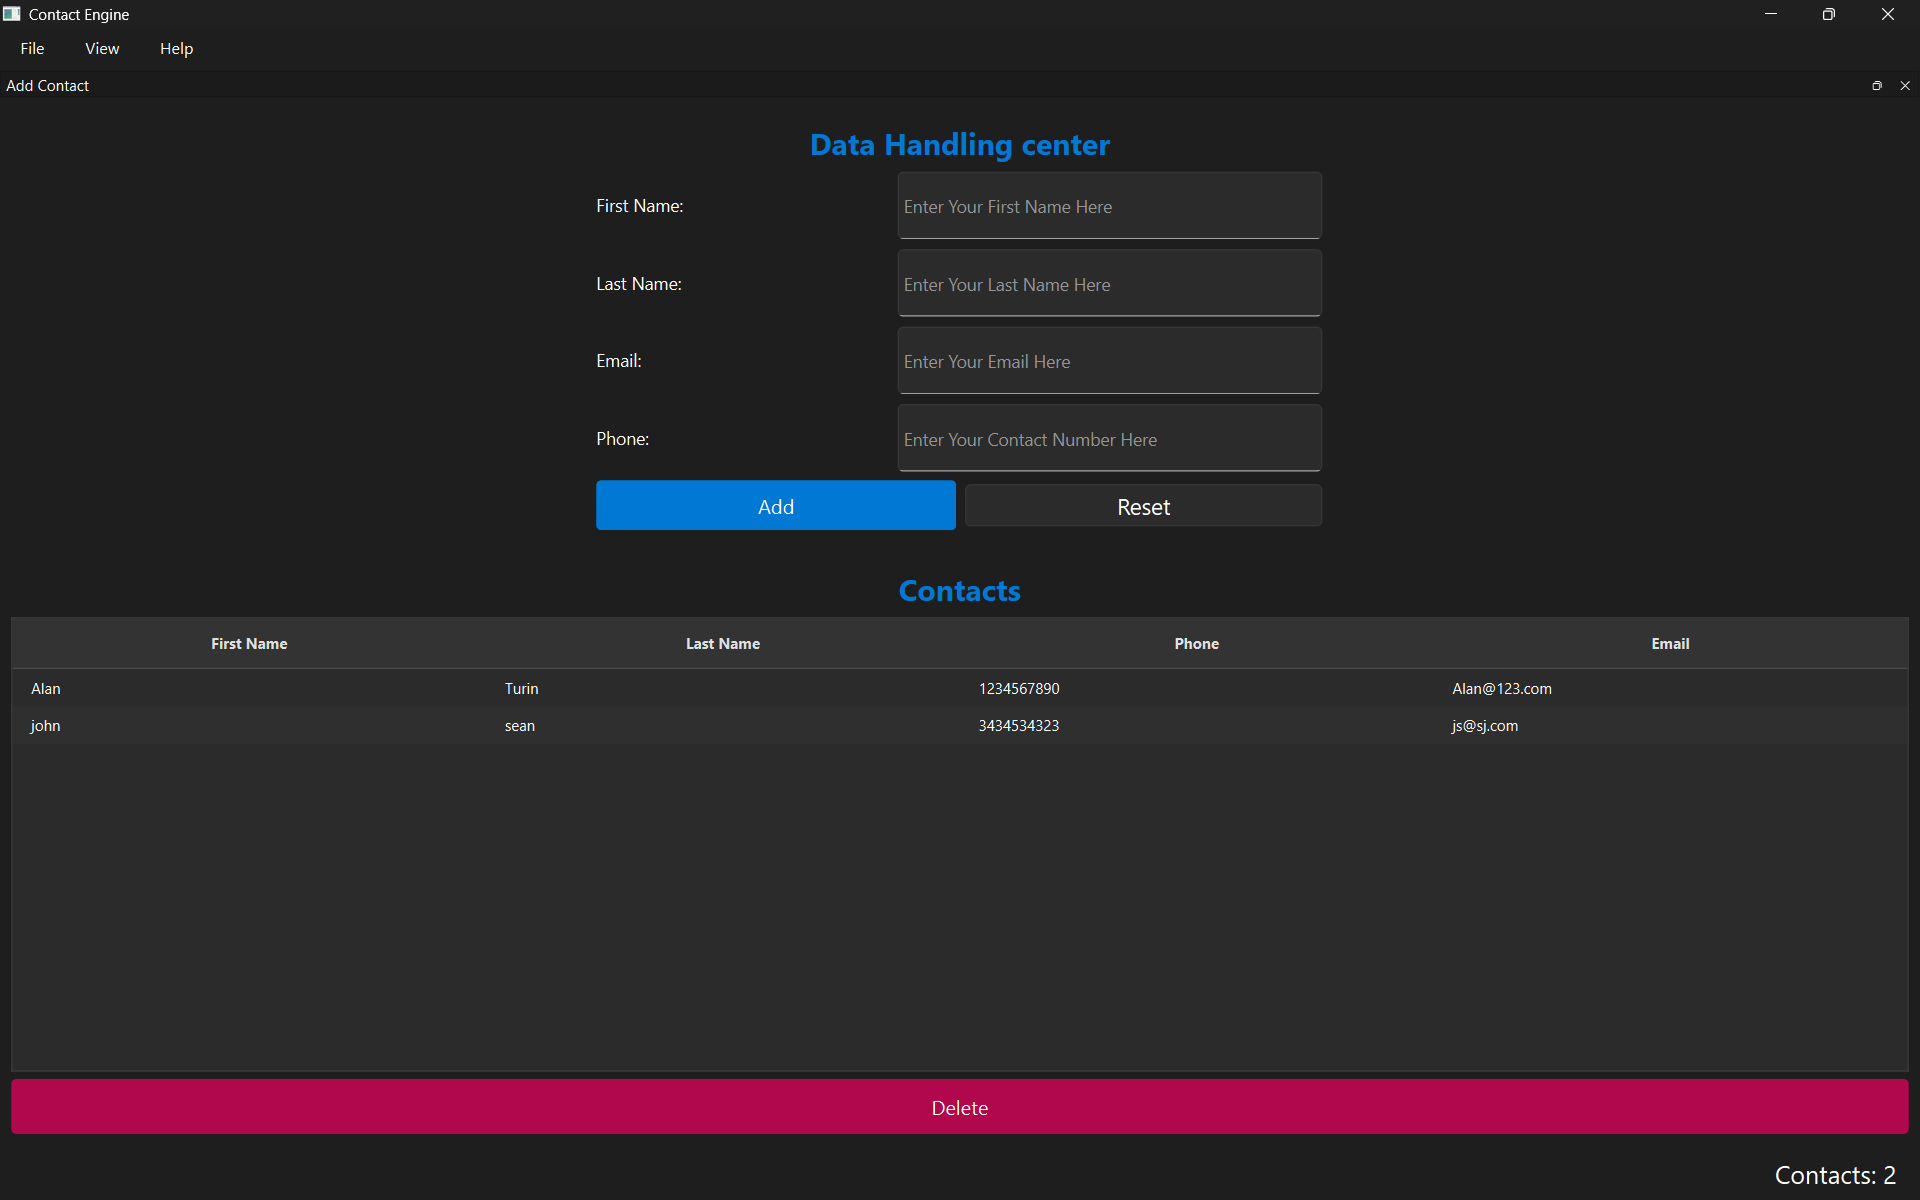
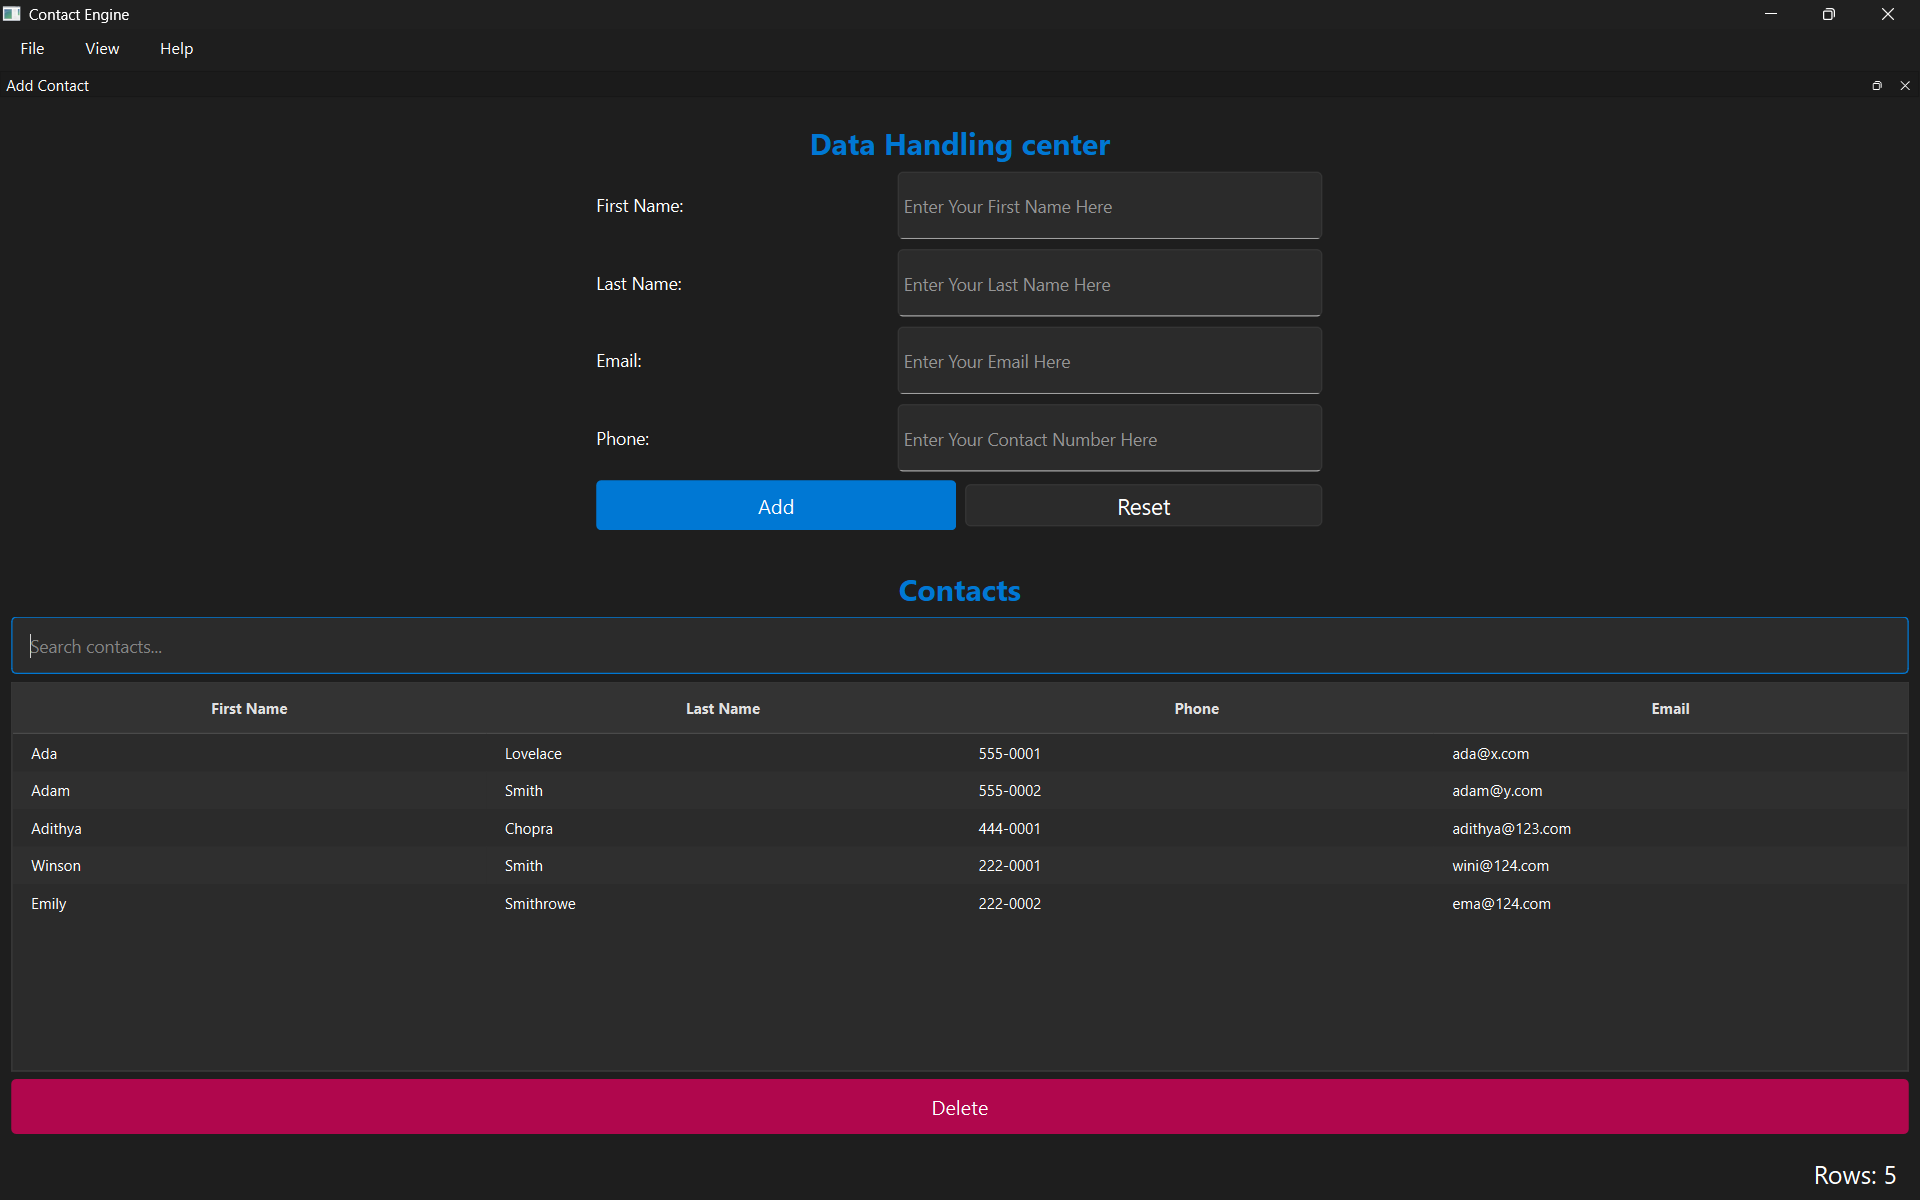
docs(readme): updated the readme with lates v0.5 features and added the screenshots

diff --git a/readme.md b/readme.md
@@ -19,6 +19,7 @@ everything persists to a local SQLite database between sessions.
 - Dockable input form — move it, float it, close it, or toggle from the View menu
 - Menu bar with keyboard shortcuts (`Ctrl+N`, `Ctrl+Q`)
 - Status bar with live contact counter and action feedback
+- Live search across names and emails (FTS5 inverted index, 200ms debounce)
 
 ---
 
@@ -269,12 +270,13 @@ None of these require changing the model/view/controller boundaries.
 | `v0.3` | Code structure cleanup and color palette |
 | `v0.4` | SQLite persistence, `QAbstractTableModel`, `QTableView`, WAL mode |
 | `v0.4.1` | Table styling pass, form layout fixes |
+| `v0.5` | FTS5-backed search with debounce, live filtering |
 
 ---
 
 ## Known Limitations
 
-- No search, sort, or inline edit yet (planned for later versions)
+- No sort, or inline edit yet (planned for later versions)
 - Single database file for all contacts (no multi-address-book support)
 - Window layout is not remembered between sessions (dock position resets to top)
 - No visual empty-state ("No contacts yet") — the table is simply blank
